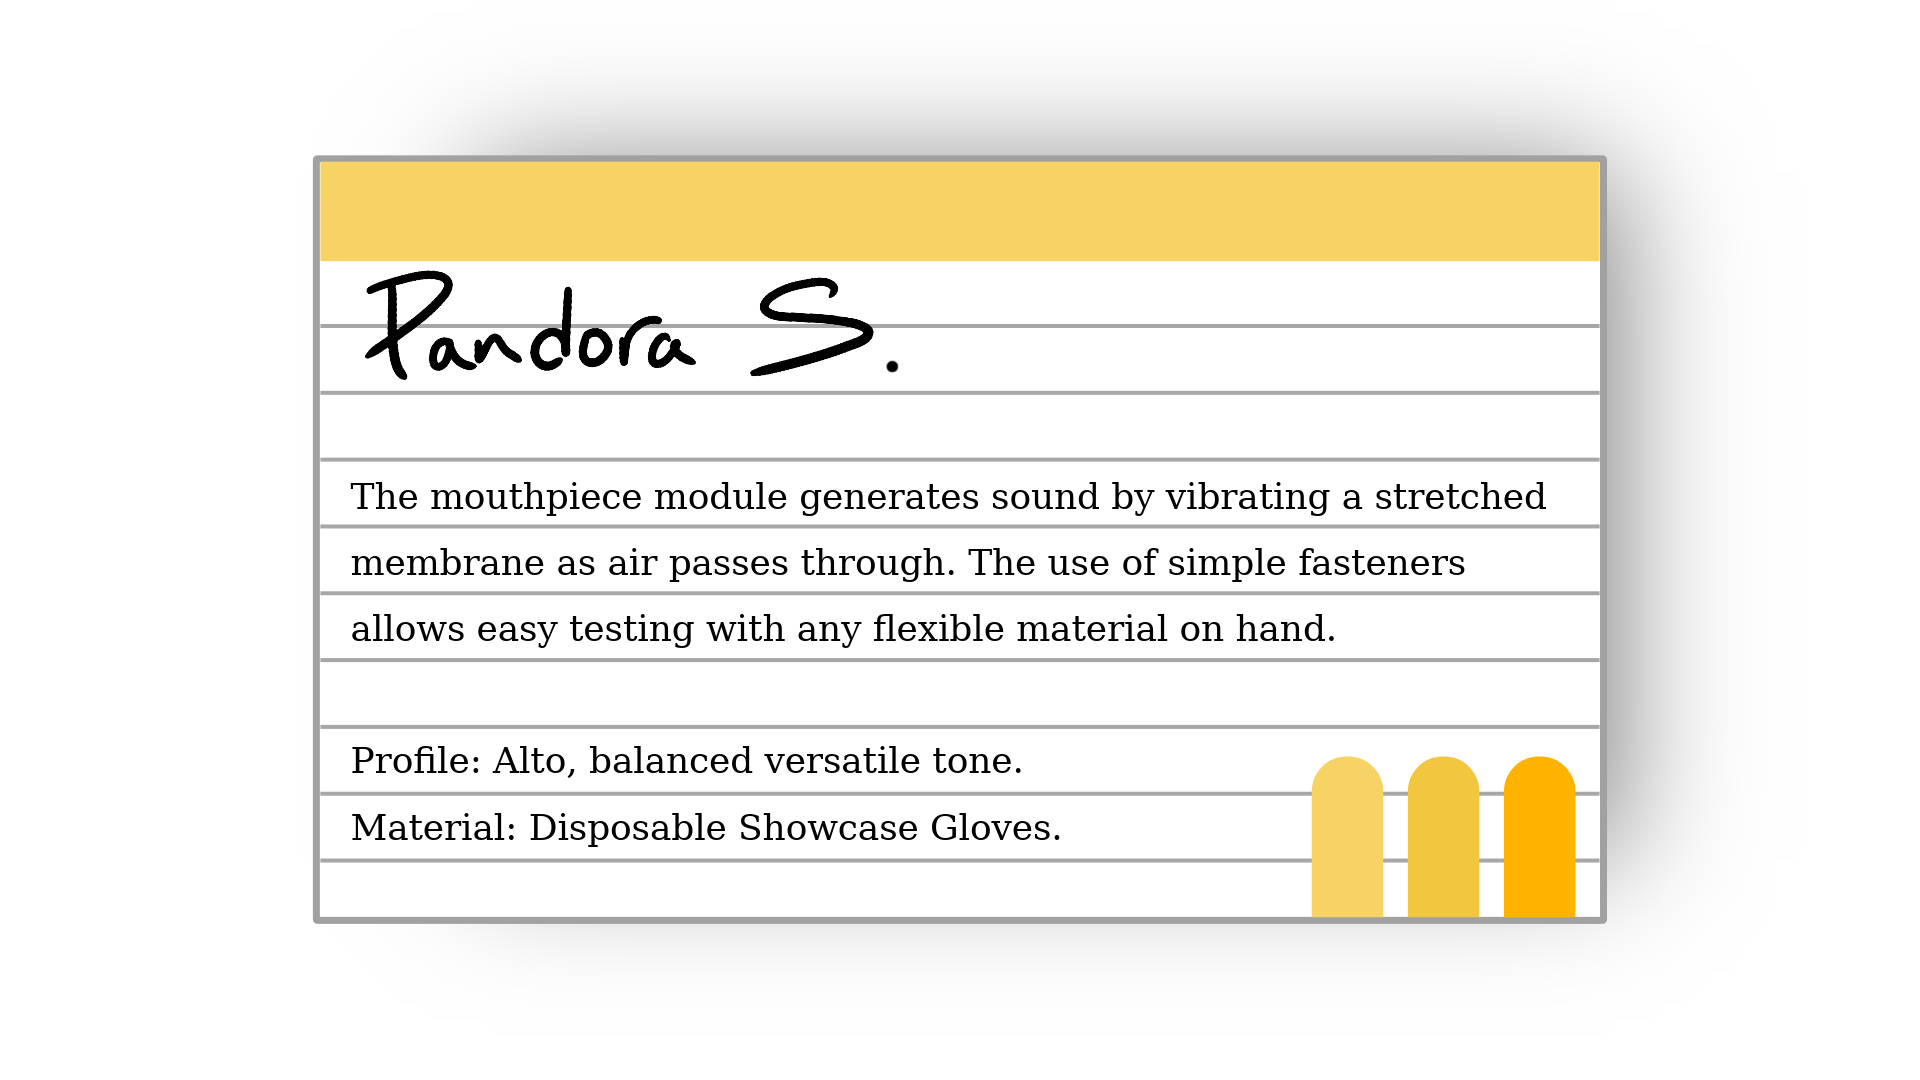
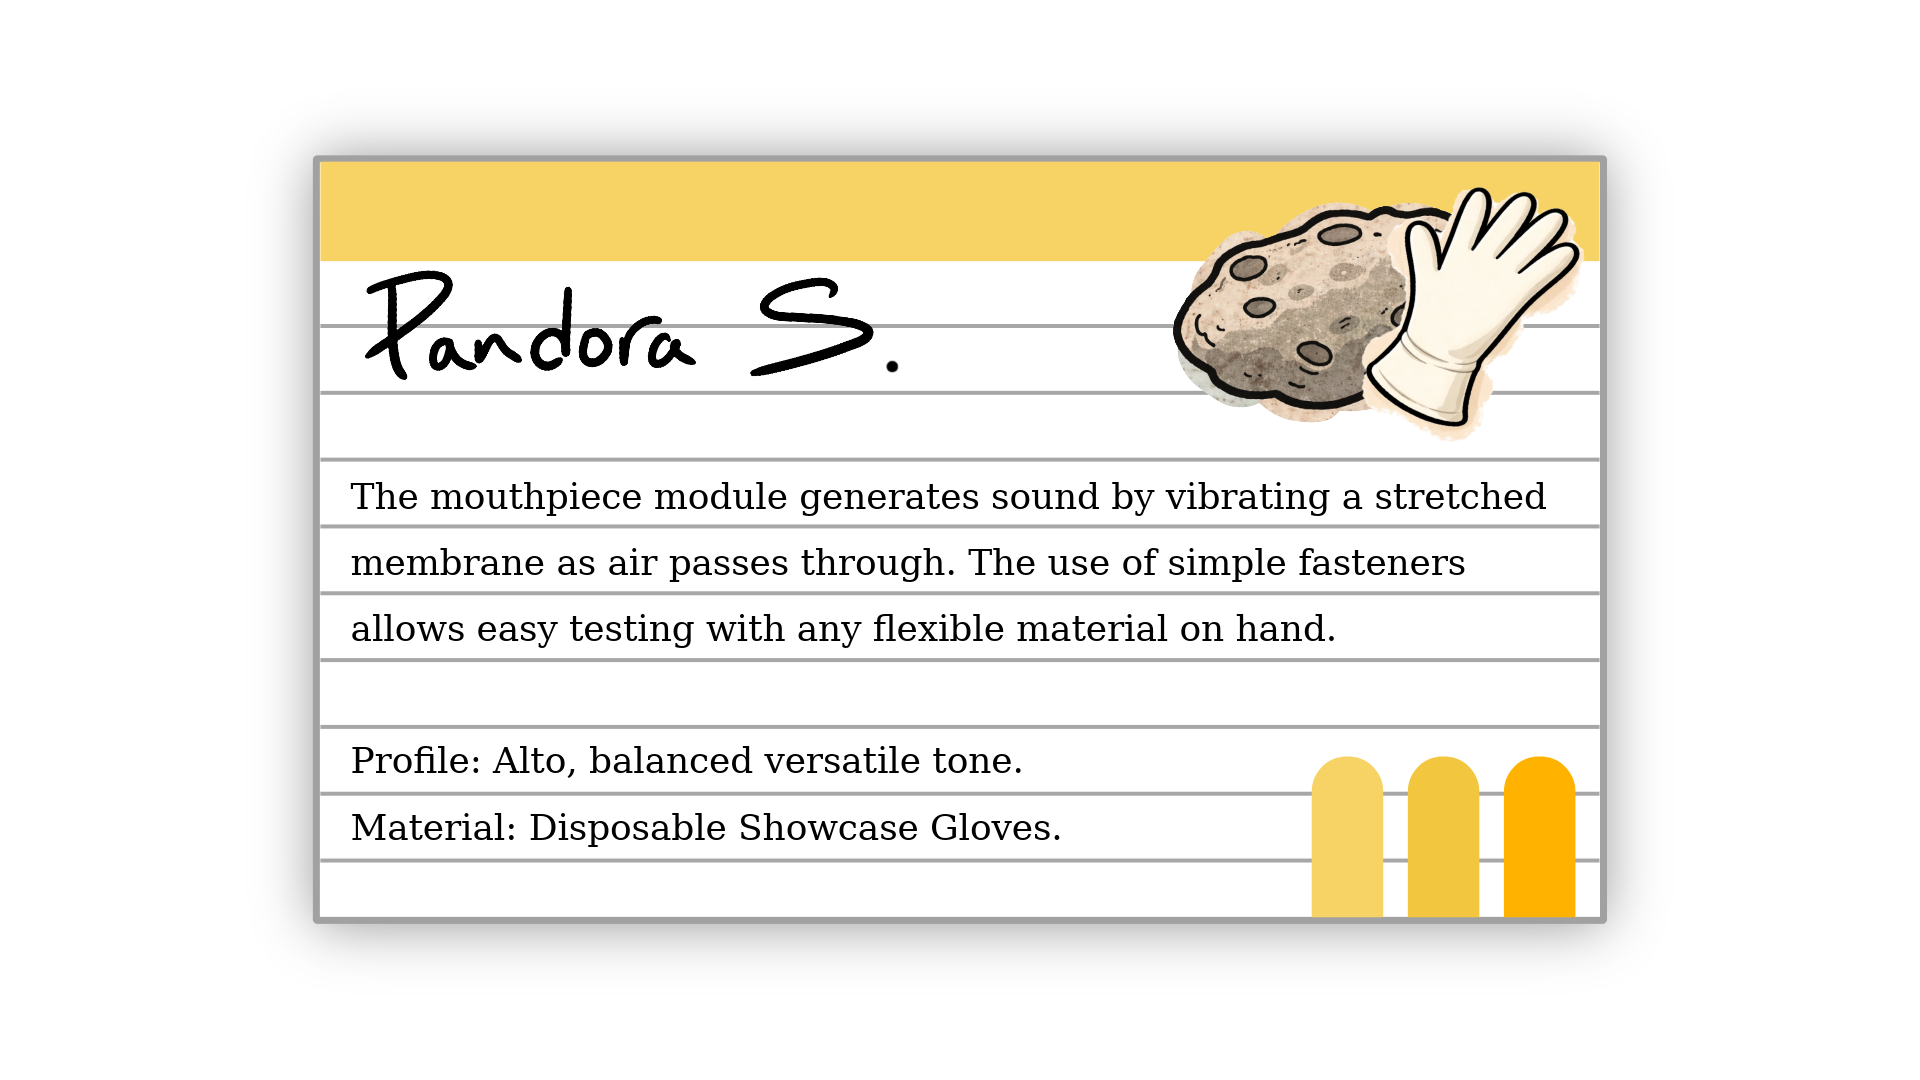
Saturn home stretch!
finalized the visual assets for project saturn, fixed the freezing issue and made all of the closing animations so its fully functioning now. the last step for saturn is the sound effects tat need to go in.

Changed region(s): [[0.5938, 0.1528, 0.875, 0.7639], [0.1562, 0.1222, 0.8125, 0.8861]]

diff --git a/js/SaturnCD.js b/js/SaturnCD.js
@@ -194,6 +194,7 @@
 
     // Phase 1: Add dim overlay to body
     document.body.classList.add("assembly-active");
+    window.animationRunning = true;
 
     // Prevent poster close during assembly
     if (poster) {
@@ -988,6 +989,14 @@
         }, 50); // Small delay to ensure transition triggers
 
         console.log("Phase 7: Nametag, heading, and panels created!");
+        // ============================================================
+        // PHASE 8: RE-ENABLE CLICKS
+        // ============================================================
+        setTimeout(() => {
+          window.animationRunning = false;
+          window.saturnAssemblyComplete = true;
+          console.log("Phase 8: Animation complete - clicks re-enabled.");
+        }, 2000); // 2000ms covers the slowest notecard (250 + 400 random + 1000 transition)
       },
       1000 + 1000 + 200 + 840 + 400 + 300 + 1100, // Phase 6 start + 1100ms (halfway through growth)
     );
@@ -1063,65 +1072,68 @@
 
   // Watch for poster closing → stop + reset
   const mo = new MutationObserver(() => {
+    mo.disconnect();
+
     const poster = document.querySelector(".poster.SaturnCD");
-    if (!poster) return;
-    const img = poster.querySelector("#saturn-cd-disk");
-    if (!img) return;
+    const img = poster?.querySelector("#saturn-cd-disk");
 
-    if (!poster.classList.contains("poster-active")) {
-      stopAndReset(img);
-      stopNoteEmitter();
-      // Reset assembly state
-      document.body.classList.remove("assembly-active");
-      assemblyInProgress = false; // RESET FLAG HERE
-      if (poster) poster.style.pointerEvents = "";
-
-      // Remove any clones
-      document.querySelectorAll(".assembly-clone").forEach((c) => c.remove());
-
-      // Remove assembled image from previous assembly
-      document.querySelectorAll(".assembled-saturn").forEach((a) => a.remove());
-
-      // Remove info bloom elements
-      document
-        .querySelectorAll(
-          ".info-bloom-left, .info-bloom-right, .info-bloom-heading, .info-bloom-nametag, .info-bloom-polaroid, .info-bloom-notecard-mouth, .info-bloom-notecard-body, .info-bloom-notecard-bell",
-        )
-        .forEach((e) => e.remove());
-
-      // Remove dimmed-module class from all modules
-      document.querySelectorAll(".dimmed-module").forEach((m) => {
-        m.classList.remove("dimmed-module");
+    // If poster is still active, just reconnect and do nothing
+    if (!poster || !img || poster.classList.contains("poster-active")) {
+      mo.observe(document.body, {
+        subtree: true,
+        childList: true,
+        attributes: true,
+        attributeFilter: ["class"],
       });
-
-      // Restore opacity to all module images
-      document.querySelectorAll(".module-image").forEach((img) => {
-        img.style.opacity = "";
-      });
-
-      document
-        .querySelectorAll(".info-bloom-heading")
-        .forEach((h) => h.remove());
-
-      // Reset module selections
-      selectedBody = null;
-      selectedMouth = null;
-      selectedBell = null;
-
-      // Uncheck all module checkboxes when poster closes
-      [
-        "titan-select",
-        "phoebe-select",
-        "pandoraK-select",
-        "pandoraM-select",
-        "pandoraS-select",
-        "tethys-select",
-        "enceladus-select",
-      ].forEach((id) => {
-        const checkbox = document.getElementById(id);
-        if (checkbox) checkbox.checked = false;
-      });
+      return;
     }
+
+    // Poster exists, has img, and is NOT active — run full cleanup
+    stopAndReset(img);
+    stopNoteEmitter();
+    document.body.classList.remove("assembly-active");
+    assemblyInProgress = false;
+    window.animationRunning = false;
+    window.saturnAssemblyComplete = false;
+    if (poster) poster.style.pointerEvents = "";
+
+    document.querySelectorAll(".assembly-clone").forEach((c) => c.remove());
+    document.querySelectorAll(".assembled-saturn").forEach((a) => a.remove());
+    document
+      .querySelectorAll(
+        ".info-bloom-left, .info-bloom-right, .info-bloom-heading, .info-bloom-nametag, .info-bloom-polaroid, .info-bloom-notecard-mouth, .info-bloom-notecard-body, .info-bloom-notecard-bell",
+      )
+      .forEach((e) => e.remove());
+    document.querySelectorAll(".dimmed-module").forEach((m) => {
+      m.classList.remove("dimmed-module");
+    });
+    document.querySelectorAll(".module-image").forEach((img) => {
+      img.style.opacity = "";
+    });
+
+    selectedBody = null;
+    selectedMouth = null;
+    selectedBell = null;
+
+    [
+      "titan-select",
+      "phoebe-select",
+      "pandoraK-select",
+      "pandoraM-select",
+      "pandoraS-select",
+      "tethys-select",
+      "enceladus-select",
+    ].forEach((id) => {
+      const checkbox = document.getElementById(id);
+      if (checkbox) checkbox.checked = false;
+    });
+
+    mo.observe(document.body, {
+      subtree: true,
+      childList: true,
+      attributes: true,
+      attributeFilter: ["class"],
+    });
   });
 
   mo.observe(document.body, {
@@ -1291,4 +1303,126 @@
       }
     }, 0);
   });
+  window.saturnDisassemble = function () {
+    window.animationRunning = true;
+    window.saturnAssemblyComplete = false;
+
+    const speed = 400; // ms — about 2.5x faster than the 1000ms entry
+
+    // ── Nametag ──────────────────────────────────────────
+    const nametag = document.querySelector(".info-bloom-nametag");
+    if (nametag) {
+      const nametagHeight = 810;
+      nametag.style.transition = `top ${speed}ms cubic-bezier(0.25, 0.46, 0.45, 0.94)`;
+      nametag.style.top = `-${nametagHeight + 50}px`;
+    }
+
+    // ── Heading ───────────────────────────────────────────
+    const heading = document.querySelector(".info-bloom-heading");
+    if (heading) {
+      const headingHeight = 540;
+      heading.style.transition = `top ${speed}ms cubic-bezier(0.25, 0.46, 0.45, 0.94)`;
+      heading.style.top = `-${headingHeight + 100}px`;
+    }
+
+    // ── Left panel (release notes) ────────────────────────
+    const releaseNotes = document.querySelector(".info-bloom-left");
+    if (releaseNotes) {
+      const releaseNotesWidth = 614.4;
+      releaseNotes.style.transition = `left ${speed}ms cubic-bezier(0.25, 0.46, 0.45, 0.94)`;
+      releaseNotes.style.left = `-${releaseNotesWidth + 200}px`;
+    }
+
+    // ── Polaroid ──────────────────────────────────────────
+    const polaroid = document.querySelector(".info-bloom-polaroid");
+    if (polaroid) {
+      const polaroidWidth = 990 * 0.3;
+      polaroid.style.transition = `left ${speed}ms cubic-bezier(0.25, 0.46, 0.45, 0.94)`;
+      polaroid.style.left = `-${polaroidWidth + 200}px`;
+    }
+
+    // ── Right panel (cutting board) ───────────────────────
+    const cuttingBoard = document.querySelector(".info-bloom-right");
+    if (cuttingBoard) {
+      const cuttingBoardWidth = 1200 * 0.6;
+      cuttingBoard.style.transition = `right ${speed}ms cubic-bezier(0.25, 0.46, 0.45, 0.94)`;
+      cuttingBoard.style.right = `-${cuttingBoardWidth + 200}px`;
+    }
+
+    // ── Notecards ─────────────────────────────────────────
+    const mouthNotecard = document.querySelector(".info-bloom-notecard-mouth");
+    if (mouthNotecard) {
+      const notecardWidth = 1920 * 0.45;
+      mouthNotecard.style.transition = `right ${speed}ms cubic-bezier(0.25, 0.46, 0.45, 0.94)`;
+      mouthNotecard.style.right = `-${notecardWidth + 600}px`;
+    }
+
+    const bodyNotecard = document.querySelector(".info-bloom-notecard-body");
+    if (bodyNotecard) {
+      const notecardWidth = 1920 * 0.45;
+      bodyNotecard.style.transition = `right ${speed}ms cubic-bezier(0.25, 0.46, 0.45, 0.94)`;
+      bodyNotecard.style.right = `-${notecardWidth}px`;
+    }
+
+    const bellNotecard = document.querySelector(".info-bloom-notecard-bell");
+    if (bellNotecard) {
+      const notecardWidth = 1920 * 0.45;
+      bellNotecard.style.transition = `right ${speed}ms cubic-bezier(0.25, 0.46, 0.45, 0.94)`;
+      bellNotecard.style.right = `-${notecardWidth}px`;
+    }
+    // Fade assembled image and undim simultaneously
+    const assembled = document.querySelector(".assembled-saturn");
+    if (assembled) {
+      assembled.style.transition = "opacity 1000ms ease";
+      assembled.style.opacity = "0";
+      setTimeout(() => assembled.remove(), 1000);
+    }
+
+    // Undim — CSS transition on body::before handles the fade automatically
+    document.body.classList.remove("assembly-active");
+
+    // Restore selected module images with fade
+    document.querySelectorAll(".module-image").forEach((img) => {
+      img.style.transition = "opacity 500ms ease";
+      img.style.opacity = "1";
+    });
+
+    // Remove dimmed class from non-selected modules
+    document.querySelectorAll(".dimmed-module").forEach((m) => {
+      m.classList.remove("dimmed-module");
+    });
+
+    // Reset checkboxes
+    [
+      "titan-select",
+      "phoebe-select",
+      "pandoraK-select",
+      "pandoraM-select",
+      "pandoraS-select",
+      "tethys-select",
+      "enceladus-select",
+    ].forEach((id) => {
+      const checkbox = document.getElementById(id);
+      if (checkbox) checkbox.checked = false;
+    });
+
+    // Reset state
+    selectedBody = null;
+    selectedMouth = null;
+    selectedBell = null;
+    assemblyInProgress = false;
+
+    // ── Cleanup after slides complete ─────────────────────
+    setTimeout(() => {
+      document
+        .querySelectorAll(
+          ".info-bloom-nametag, .info-bloom-heading, .info-bloom-left, .info-bloom-right, .info-bloom-polaroid, .info-bloom-notecard-mouth, .info-bloom-notecard-body, .info-bloom-notecard-bell",
+        )
+        .forEach((el) => el.remove());
+
+      console.log("Disassemble: info bloom cleared.");
+      // TODO: assembled image dismiss + blueprint restore will go here
+      window.animationRunning = false;
+    }, speed + 50); // slight buffer after transition
+  };
 })();

diff --git a/Posters/CD-Saturn.html b/Posters/CD-Saturn.html
@@ -345,6 +345,45 @@
         opacity 0.4s ease 0s;
     }
 
+    .SaturnEditionLabel {
+      position: absolute;
+      top: 75px;
+      left: 50px;
+      width: 120px;
+      height: 106px;
+      transform: translate(-50px, -50px) rotate(0deg);
+      background: transparent;
+      border: none;
+      z-index: 4; /* one below blueprint at z-index 5 */
+      pointer-events: none;
+      transition: transform 1s cubic-bezier(0.25, 0.8, 0.25, 1);
+      will-change: transform;
+      opacity: 0;
+    }
+
+    .SaturnEditionLabel img {
+      width: 1020px;
+      height: auto;
+      transform: scale(0.9);
+      transform-origin: top left;
+      image-rendering: -webkit-optimize-contrast;
+      image-rendering: crisp-edges;
+    }
+
+    .poster-active.SaturnCD .panel.rightpanel .SaturnEditionLabel {
+      transform: translate(-307px, -76px) rotate(-4deg);
+      transition-delay: 1.4s;
+      opacity: 1;
+    }
+
+    .SaturnCD:not(.poster-active) .panel.rightpanel .SaturnEditionLabel {
+      transform: translate(-50px, -50px) rotate(0deg);
+      opacity: 0;
+      transition:
+        transform 0.4s ease 0s,
+        opacity 0.4s ease 0s;
+    }
+
     /* ============================================================================================================================ */
     /* 🛰 SATURN MODULAR ELEMENTS SYSTEM 🛰 */
     /* ============================================================================================================================ */
@@ -1104,6 +1143,13 @@
         />
         <label for="enceladus-select" id="module-Enceladus-hitbox"></label>
       </div>
+    </div>
+
+    <div class="SaturnEditionLabel" aria-hidden="true">
+      <img
+        src="Assets/SaturnEditionLabel.png"
+        alt="Saturn Deconstructed Edition Label"
+      />
     </div>
 
     <!-- Clickable overlay for right panel -->

diff --git a/js/main.js b/js/main.js
@@ -3,6 +3,9 @@ const corkboard = document.querySelector(".corkboard");
 
 let isZoomedIn = false;
 let activePoster = null;
+// Global animation lock - can be set by any poster JS file
+window.animationRunning = false;
+window.saturnAssemblyComplete = false;
 
 sceneContainer.style.transform = "scale(0.4)";
 corkboard.style.transform = "rotateX(30deg) rotateY(-30deg)";
@@ -296,8 +299,15 @@ function initPosterInteractions() {
 
   // Click outside to close posters
   document.addEventListener("click", (e) => {
+    if (window.animationRunning) return;
     if (activePoster) {
-      if (!e.target.closest(".poster-active")) closeActivePoster();
+      if (!e.target.closest(".poster-active")) {
+        if (window.saturnAssemblyComplete) {
+          window.saturnDisassemble();
+        } else {
+          closeActivePoster();
+        }
+      }
       return;
     }
     if (isZoomedIn && !e.target.closest(".corkboard")) {

diff --git a/js/SoundEffects.js b/js/SoundEffects.js
@@ -71,6 +71,7 @@ class SoundEffects {
 const soundEffects = new SoundEffects();
 
 // Load your sounds here
+// soundEffect.loadsound("name","foldername/filename.fileextention", volume percentage);
 soundEffects.loadSound("APF1", "sounds/SlideLong.mp3", 0.6);
 soundEffects.loadSound("APF2", "sounds/SlideShort1.mp3", 0.6);
 soundEffects.loadSound("APF3", "sounds/SlideShort2.mp3", 0.6);
